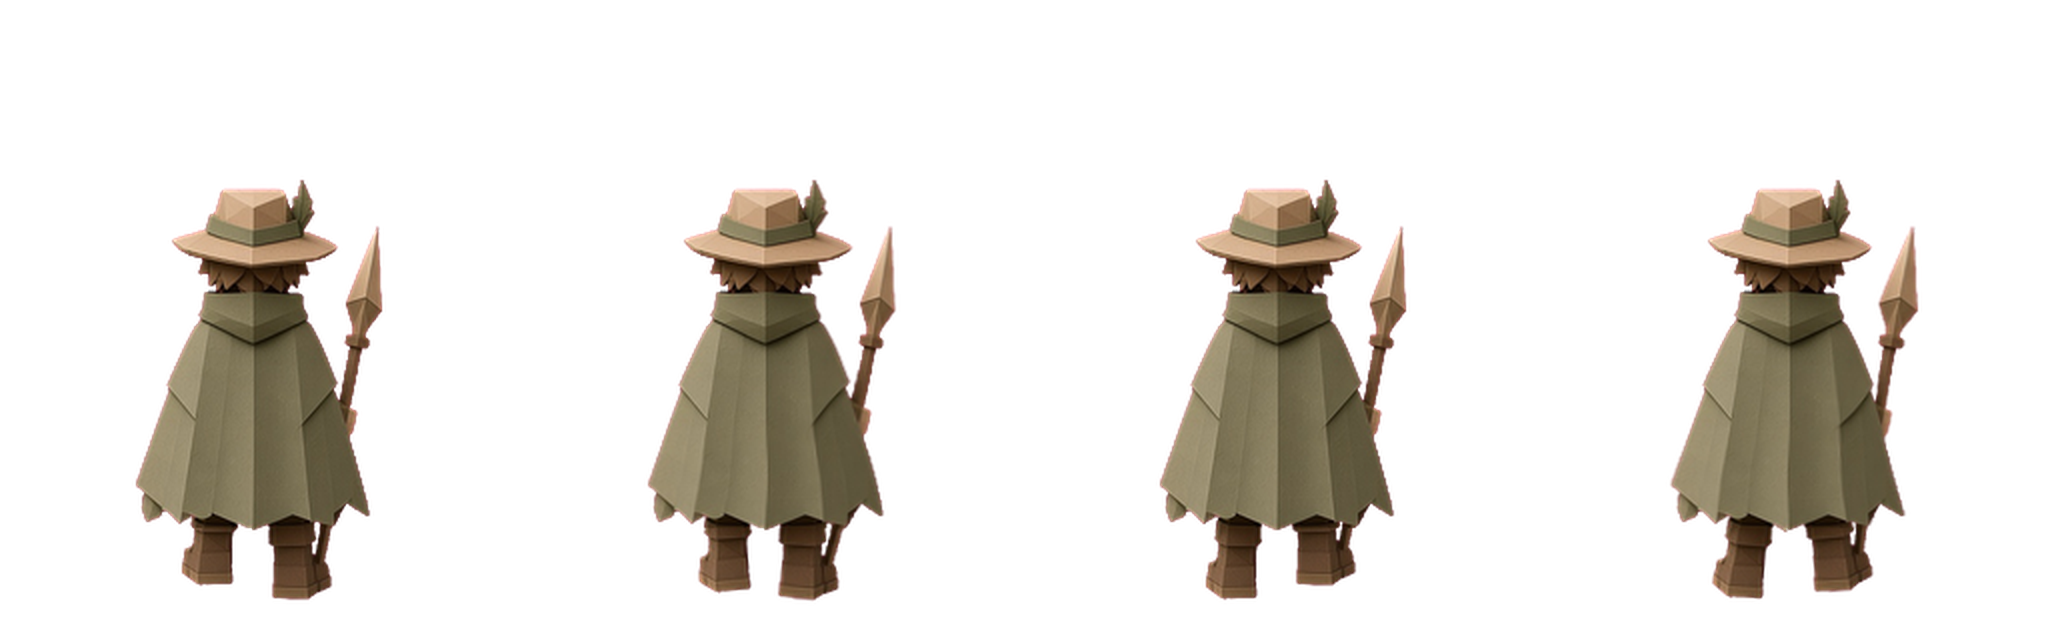
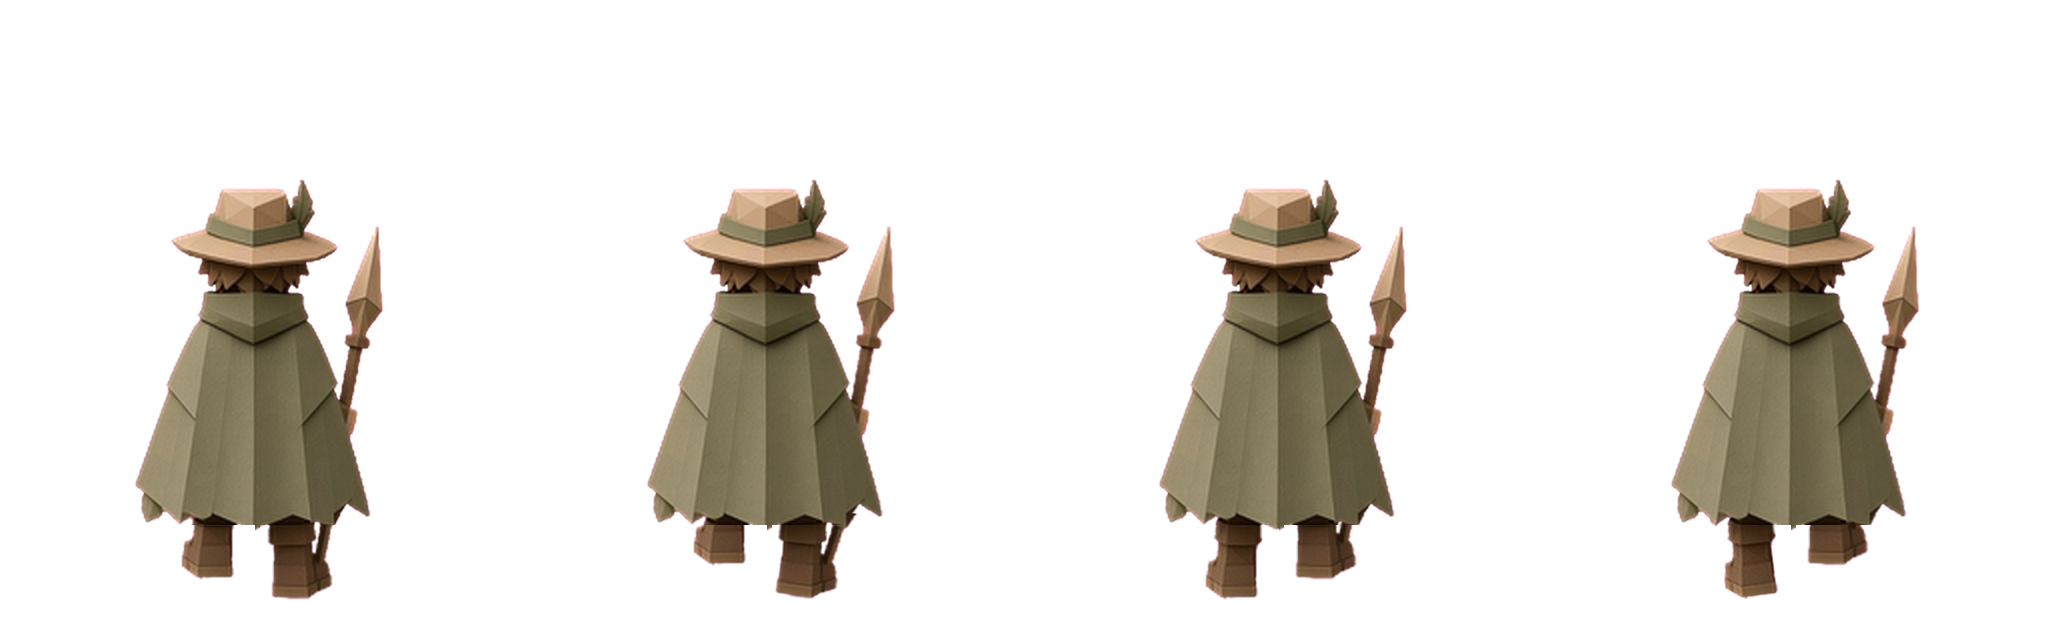
Replace the hunter walk strips with the second batch.
The first strips stay in public/art/walk-v1. The new frames keep the same pivot, and a held wall or a released key still stops the gait.

diff --git a/src/walk/play.ts b/src/walk/play.ts
@@ -15,6 +15,7 @@ import {
   WALK_ANCHOR_Y,
   WALK_FRAME_H,
   WALK_FRAME_W,
+  WALK_BATCH,
   WALK_FRAMES,
   WALK_SHEET_URLS,
   isRgbaPng,
@@ -208,6 +209,10 @@ export class WalkMode {
     hint.className = "walk-hint";
     hint.id = "walk-limit";
     hint.textContent = "猎人是单张立绘。没有四向，也没有迈步。朝西只是镜像，不是行走动画。";
+    const section = document.createElement("p");
+    section.className = "walk-hint";
+    section.id = "walk-section";
+    section.textContent = "第二批";
     const input = document.createElement("p");
     input.className = "walk-hint";
     input.id = "walk-input";
@@ -243,7 +248,7 @@ export class WalkMode {
     again.onclick = () => this.restart();
     this.win.append(msg, again);
 
-    this.root.append(top, stage, hint, input, pad, this.win);
+    this.root.append(top, stage, hint, section, input, pad, this.win);
   }
 
   private bindHold(btn: HTMLButtonElement, dir: string): void {
@@ -306,7 +311,7 @@ export class WalkMode {
     const missing = dirs.filter((dir) => !this.sheets[dir]);
     const note = document.getElementById("walk-limit");
     if (note && missing.length === 0) {
-      note.textContent = "首批四向帧已接入，不是终稿。东西髋缝，南北迈步偏弱，换向武器不完全一致。";
+      note.textContent = "第二批行走帧，不是终稿。斗篷仍挡住南北迈步，东向矛的手和轮廓还要改。";
     } else if (note && missing.length) {
       note.textContent = `行走帧缺失：${missing.join(" ")}。缺的方向不用单张冒充迈步。`;
     }
@@ -331,7 +336,51 @@ export class WalkMode {
     const frame = sheetFrame(this.walker.phase, this.walker.moving, WALK_FRAMES);
     const blocked = held.length > 0 && !this.walker.moving && !this.walker.won;
     const motion = this.walker.won ? "到旗" : blocked ? "受阻停步" : this.walker.moving ? "在走" : "停";
-    el.textContent = `输入 ${held.join("") || "无"} · 朝${cardinal} · 帧${frame} · ${motion}`;
+    el.textContent = `${this.buildLabel()} · 输入 ${held.join("") || "无"} · 朝${cardinal} · 帧${frame} · ${motion}`;
+  }
+
+  private buildLabel(): string {
+    const src = [...document.scripts].map((script) => script.src).find((item) => item.includes("index-")) ?? "";
+    const match = src.match(/index-[A-Za-z0-9_-]+/);
+    return `${WALK_BATCH} ${match?.[0] ?? "dev"}`;
+  }
+
+  /** Lowest solid boot row in the sheet this loop is actually drawing. No per-frame shift. */
+  auditFeet(): Record<string, { frame: number; low: number; onGround: number; otherLow: number }[]> {
+    const out: Record<string, { frame: number; low: number; onGround: number; otherLow: number }[]> = {};
+    for (const dir of Object.keys(this.sheets) as Cardinal[]) {
+      const img = this.sheets[dir];
+      if (!img) continue;
+      const canvas = document.createElement("canvas");
+      canvas.width = img.naturalWidth;
+      canvas.height = img.naturalHeight;
+      const ctx = canvas.getContext("2d");
+      if (!ctx) continue;
+      ctx.drawImage(img, 0, 0);
+      const rows = [];
+      for (let frame = 0; frame < WALK_FRAMES; frame++) {
+        const data = ctx.getImageData(frame * WALK_FRAME_W, 0, WALK_FRAME_W, WALK_FRAME_H).data;
+        let low = -1;
+        let onGround = 0;
+        let otherLow = 999;
+        for (let x = 120; x < 400; x++) {
+          let col = -1;
+          for (let y = 639; y >= 480; y--) {
+            if ((data[(y * WALK_FRAME_W + x) * 4 + 3] ?? 0) > 40) {
+              col = y;
+              break;
+            }
+          }
+          if (col < 0) continue;
+          if (col > low) low = col;
+          if (col >= 597) onGround += 1;
+          else if (col < otherLow) otherLow = col;
+        }
+        rows.push({ frame, low, onGround, otherLow: otherLow === 999 ? low : otherLow });
+      }
+      out[dir] = rows;
+    }
+    return out;
   }
 
   private stick(): { x: number; y: number } {
@@ -449,6 +498,20 @@ export class WalkMode {
       this.ctx.restore();
     }
     if (GOAL.x + GOAL.y >= playerDepth) this.drawFlag(scale, ox, oy);
+    this.drawGroundRef(feet.x, feet.y, bodyW);
+  }
+
+  /** Runtime mark at the fixed pivot. The sheet is not shifted onto it. */
+  private drawGroundRef(feetX: number, feetY: number, bodyW: number): void {
+    const ctx = this.ctx;
+    ctx.save();
+    ctx.strokeStyle = "#3a2e24";
+    ctx.lineWidth = 2;
+    ctx.beginPath();
+    ctx.moveTo(feetX - bodyW * 0.7, feetY + 0.5);
+    ctx.lineTo(feetX + bodyW * 0.7, feetY + 0.5);
+    ctx.stroke();
+    ctx.restore();
   }
 
   private drawWall(c: number, r: number, scale: number, ox: number, oy: number, lift: number): void {

diff --git a/src/walk/walk-sheets.ts b/src/walk/walk-sheets.ts
@@ -16,6 +16,8 @@ export const WALK_FRAMES = 4;
 /** Feet contact inside each frame. */
 export const WALK_ANCHOR_X = 256;
 export const WALK_ANCHOR_Y = 600;
+/** Second delivered strip set. The pivot stays (256, 600); frames are not recentered. */
+export const WALK_BATCH = "v2";
 export const WALK_SHEET_W = WALK_FRAME_W * WALK_FRAMES;
 export const WALK_SHEET_H = WALK_FRAME_H;
 
